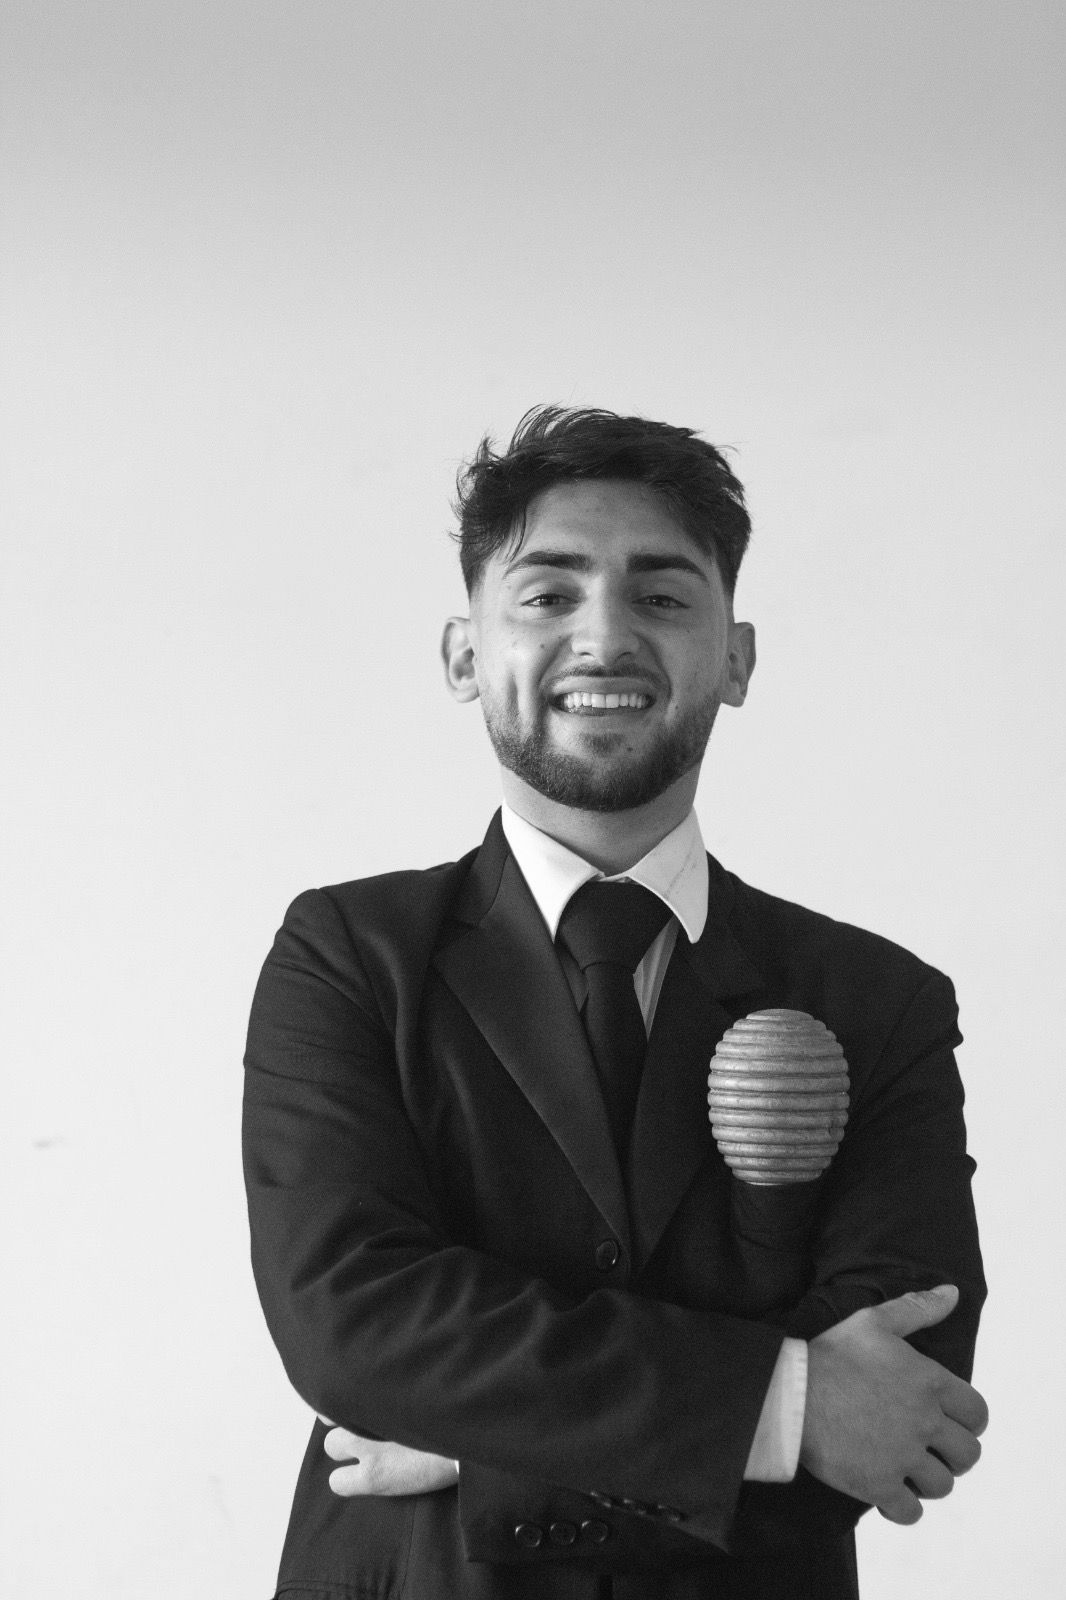
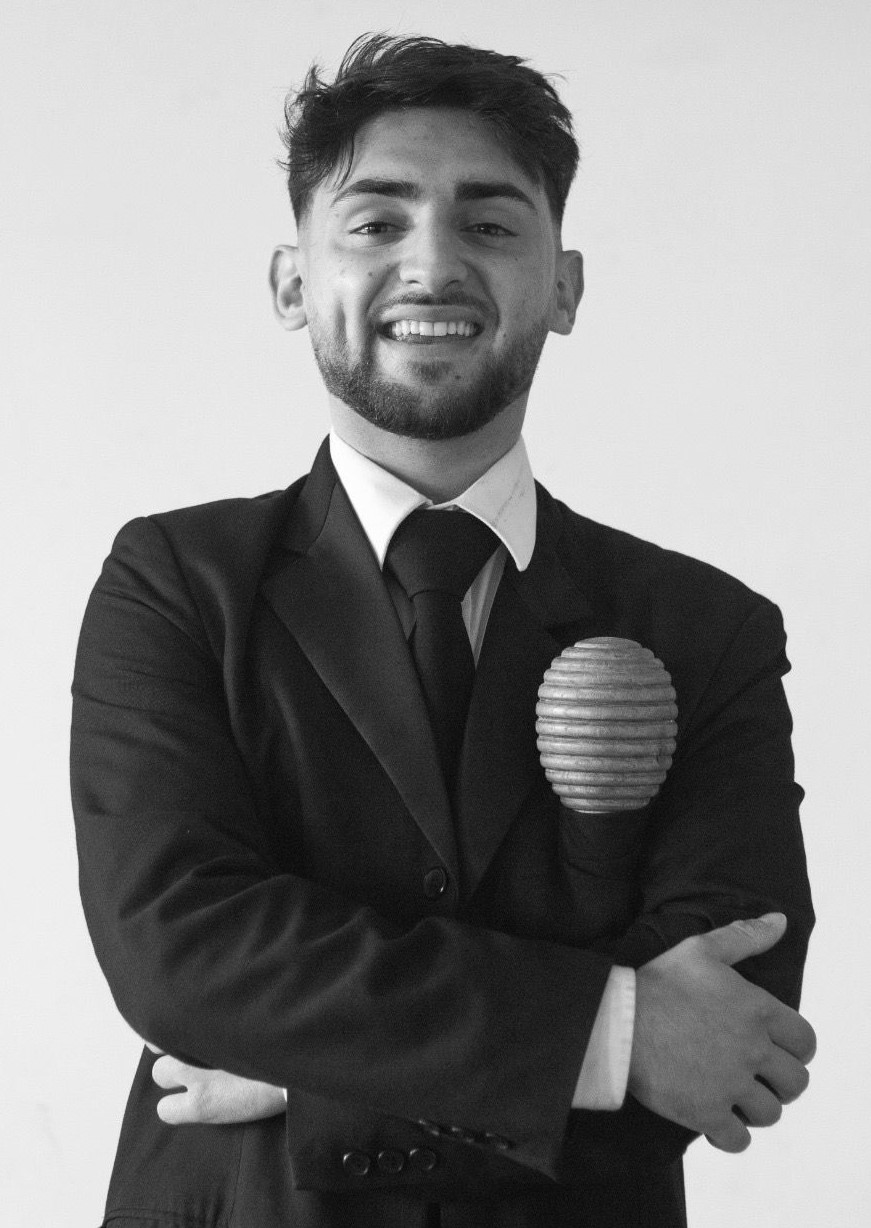
Add files via upload

diff --git a/index.html b/index.html
@@ -26,10 +26,10 @@
 			<div id="wrapper">
 
 				<!-- Intro -->
-					<section class="intro p-4">
+					<section class="intro">
 						<header>
-							<img src="images/me.jpeg" style="margin-top: -108px; border: 10px solid #000000" class="rounded-circle" width = "200" height = "700" >
-							<h1 style="margin-top: -15px; font-size: 100px;" >ALEXANDRE ROCHA</h1>
+							<img src="images/me.png" style="margin-top: -60px" class="rounded-circle" >
+							<h1 style="margin-top: -15px; font-size: 70px;" >ALEXANDRE ROCHA</h1>
 							<p style="margin-bottom: 10px; margin-top: -30px;">COMPUTER ENGINEER</p>
 							<a href="https://drive.google.com/file/d/1XuHBiQqp9pv3XzrjfzjAlqq43HkrmhtE/view" type="button" class="btn btn-sm btn-outline-dark font-weight-bold" style=" padding: -50px; margin-bottom: 40PX;">CURRICULUM VITAE</button> </a>
 							<ul class="actions">
@@ -37,7 +37,7 @@
 							</ul>
 						</header>
 						<div class="content">
-							<span class="image fill" data-position="center"><img style="margin-top: -37px; margin-left: -37px;" src="images/pic03.jpg" alt="" /></span>
+							<span class="image fill" data-position="center"><img style="margin-top: -16px" src="images/pic03.jpg" alt="" /></span>
 						</div>
 					</section>
 
